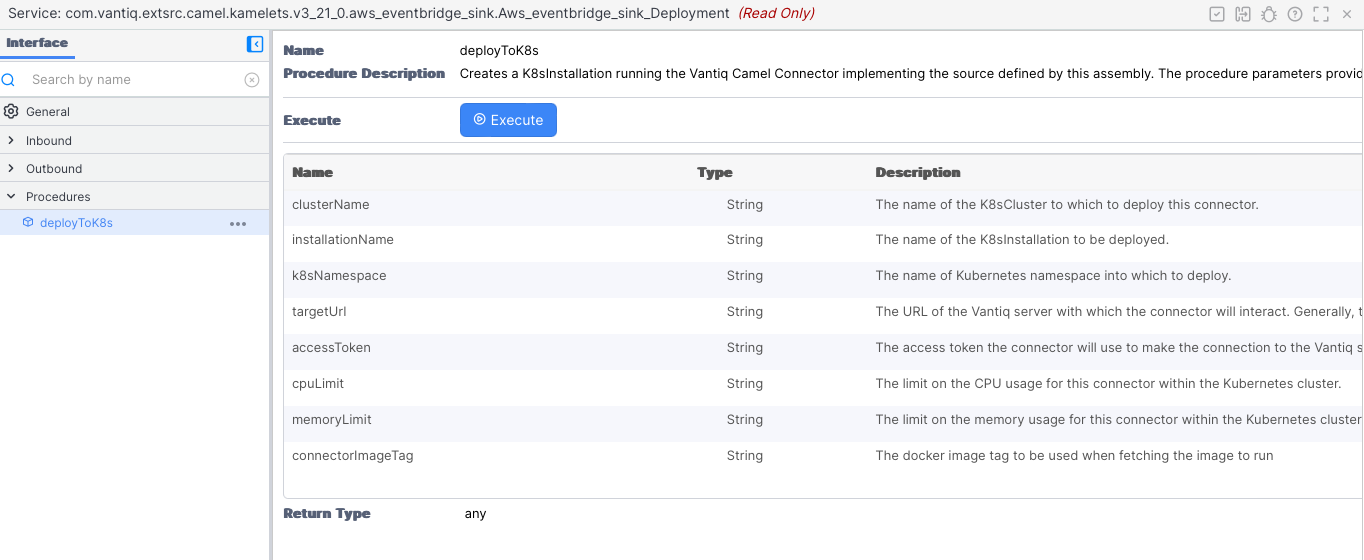
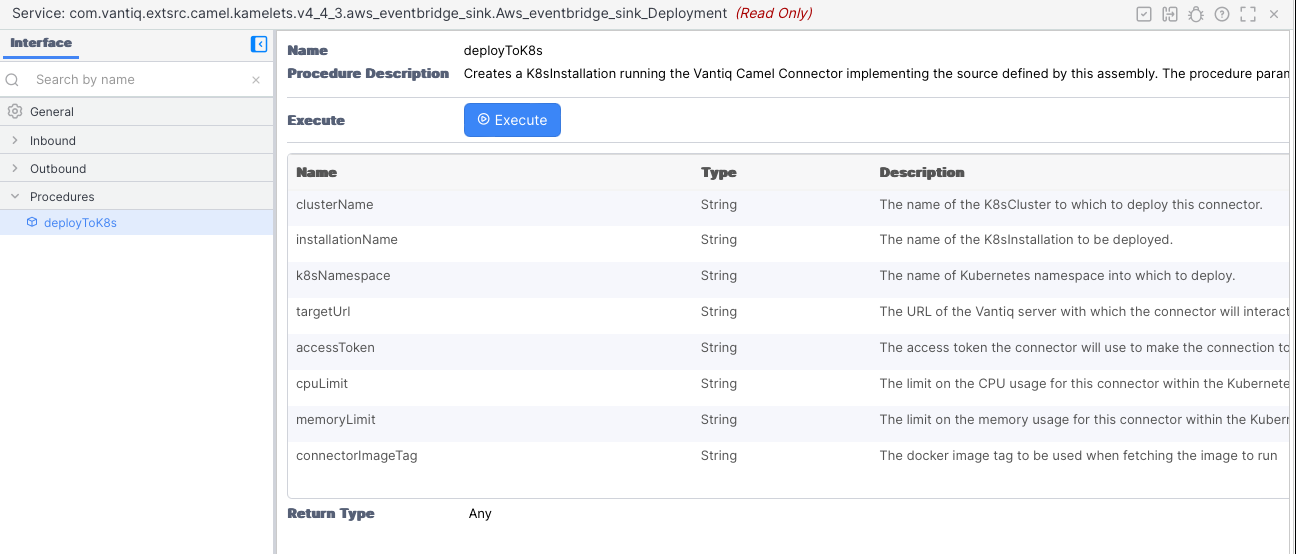
Update readme images for Camel version 4 (#519)
Fixes #518

diff --git a/camelAssemblies/README.md b/camelAssemblies/README.md
@@ -182,11 +182,11 @@ Each assembly contains such a service for performing the deployment. The service
 within the assembly, and is named using the base name with the `_Deployment` suffix.  So, for example, the 
 deployment service for the AWS EventBridge sink is
 
-`com.vantiq.extsrc.camel.kamelets.v4_4_3.aws_eventbridge_sink.Aws_eventbride_sink_Deployment`
+`com.vantiq.extsrc.camel.kamelets.v4_4_3.aws_eventbridge_sink.Aws_eventbridge_sink_Deployment`
 
 with the deployment procedure being
 
-`com.vantiq.extsrc.camel.kamelets.v4_4_3.aws_eventbridge_sink.Aws_eventbride_sink_Deployment.deployToK8s()`
+`com.vantiq.extsrc.camel.kamelets.v4_4_3.aws_eventbridge_sink.Aws_eventbridge_sink_Deployment.deployToK8s()`
 
 The actions required to perform the deployment are the same as those described for 
 [deploying a Camel Connector](../camelConnector/README.md#camelConnectorDeployment) with two (2) differences:
